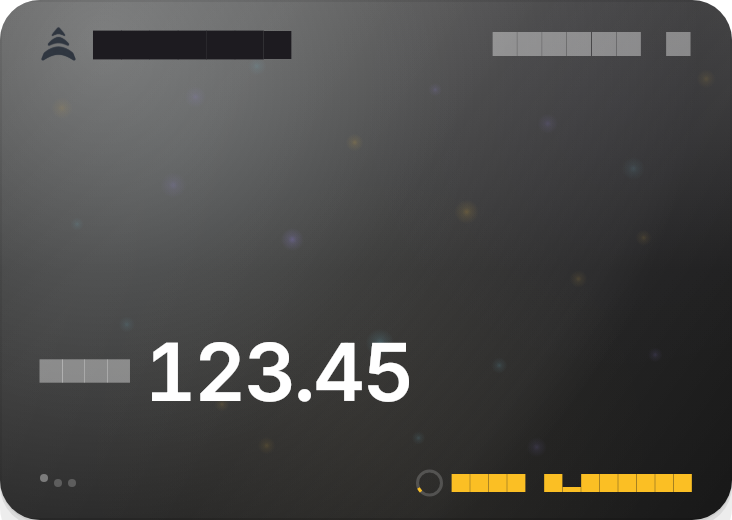
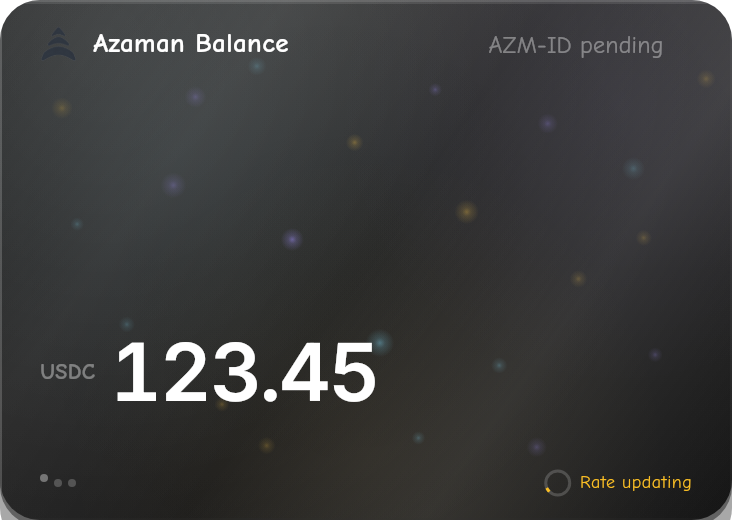
fix(captures): register every family the card types in — real font evidence, not placeholder bars
Review finding: the balance_cards capture harness registered ONLY Inter,
so every ComicNeue run (captions, unit labels, rate caption, delta chip)
and every HugeIcons glyph rasterised as Ahem placeholder bars / tofu
squares in the committed captures. The committed evidence therefore did
not show the product's real typography.

- Canonical font loader: Inter + ComicNeue (R/B) + MaterialIcons +
  package-qualified HugeIconsSolid/Stroke (#184 lesson: bare family
  names give tofu) + DejaVuSans as the glyph-complete theme fallback —
  ComicNeue has no cedi glyph (U+20B5); the OS supplies it on-device.
- Harness theme = real app theme with DejaVuSans fallback chain, so
  span styles inherit the fallback via DefaultTextStyle and metrics
  still come from the app's committed faces.
- FONT CONTRACT test: collects every family the card actually types in
  (all RichText spans, mounted icons, theme fallback chain) and fails
  naming any family the harness has not registered. Negative test
  proves the pre-fix Inter-only harness is caught.
- Span walk carries a visited-set guard: a shared/reentrant span tree
  otherwise recurses infinitely and segfaults the test shell.
- Regenerated all 12 committed captures with real glyphs; verified
  against a ComicNeue-disabled probe run (Ahem bars carry ~11.7k more
  ink px) — the committed evidence now shows real typography.
- Icon-font binaries copied from the #184 branch (same blobs, trivial
  merge in either order).

diff --git a/test/widgets/balance_cards_test.dart b/test/widgets/balance_cards_test.dart
@@ -33,6 +33,7 @@ import 'package:flutter_test/flutter_test.dart';
 import 'package:shared_preferences/shared_preferences.dart';
 
 import 'package:azaman/models/susu_model.dart';
+import 'package:hugeicons_pro/hugeicons.dart';
 import 'package:azaman/providers/hologram_provider.dart';
 import 'package:azaman/providers/theme_provider.dart';
 import 'package:azaman/providers/susu_provider.dart';
@@ -80,6 +81,141 @@ SusuSummary _susu({
   );
 }
 
+
+// ── Capture-evidence font contract (review finding on this PR) ──────────
+//
+// The real app types its surfaces in ComicNeue (UI) and Inter (money
+// figures), with HugeIconsSolid icons and the cedi glyph falling through
+// to the OS on-device. A capture harness that registers only some faces
+// rasterises the rest as Ahem placeholder bars — which is NOT product
+// evidence. Every family the card types in must be registered here, and
+// the FONT CONTRACT test below fails if the two lists drift apart.
+bool _fontsLoaded = false;
+final Set<String> _loadedFontFamilies = {};
+
+Future<void> _loadFace(String family, String path) async {
+  final bytes = await File(path).readAsBytes();
+  final loader = FontLoader(family)
+    ..addFont(
+      Future<ByteData>.value(ByteData.view(Uint8List.fromList(bytes).buffer)),
+    );
+  await loader.load();
+  _loadedFontFamilies.add(family);
+}
+
+/// Registers a family exactly as the engine resolves it for package
+/// icons: `IconData(fontFamily, fontPackage: p)` resolves under
+/// `packages/p/fontFamily` (the #184 harness lesson — the bare name
+/// leaves every glyph as tofu).
+String _familyKey(String family, {String? package}) =>
+    package == null ? family : 'packages/$package/$family';
+
+/// Registers the app's REAL bundled faces exactly once per test process
+/// (same contract as the Quiet Depth and native-amount harnesses):
+///
+///   • Inter — the numeric family (money figures; tabular metrics).
+///   • ComicNeue Regular + Bold — the display/UI family the live theme
+///     types the app in. Without them the engine rasterises Ahem:
+///     text captured as blank rectangular bars (this PR's review
+///     finding on the committed evidence).
+///   • MaterialIcons + HugeIconsSolid/Stroke — the real icon fonts, so
+///     icons render as glyphs, not tofu squares. Package icons resolve
+///     under the PACKAGE-QUALIFIED family key (the #184 lesson).
+///   • DejaVuSans — glyph-complete fallback wired through the harness
+///     theme; ComicNeue has no cedi glyph (U+20B5), the OS supplies it
+///     on-device. Metrics still come from the app's own faces.
+Future<void> _loadFonts() async {
+  if (_fontsLoaded) return;
+  await _loadFace('Inter', 'assets/fonts/Inter-Variable.ttf');
+  await _loadFace('ComicNeue', 'assets/fonts/ComicNeue-Regular.ttf');
+  await _loadFace('ComicNeue', 'assets/fonts/ComicNeue-Bold.ttf');
+  await _loadFace(
+      'MaterialIcons', 'test/goldens/fonts/MaterialIcons-Regular.otf');
+  await _loadFace('packages/hugeicons_pro/HugeIconsSolid',
+      'test/goldens/fonts/hugeicons-solid.ttf');
+  await _loadFace('packages/hugeicons_pro/HugeIconsStroke',
+      'test/goldens/fonts/hugeicons-stroke.ttf');
+  await _loadFace('DejaVuSans', 'test/goldens/fonts/DejaVuSans.ttf');
+  _fontsLoaded = true;
+}
+
+/// The families a card tree actually types in, resolved the way the
+/// engine resolves them: every RichText span with an explicit family,
+/// every icon's (package-qualified) family, and the harness theme's
+/// fallback chain.
+Set<String> _usedFontFamilies(WidgetTester tester, ThemeData theme) {
+  final used = <String>{};
+  for (final text in find.byType(RichText).evaluate()) {
+    final rich = text.widget as RichText;
+    // Walk the span tree explicitly (visitChildrenDirectly is not on
+    // InlineSpan in all channels; a manual recursive walk is stable).
+    // A span may be shared/reentrant (e.g. a style-resolving span that
+    // wraps itself); the visited set keeps the walk finite.
+    final visited = <InlineSpan>{};
+    void walk(InlineSpan span) {
+      if (!visited.add(span)) return;
+      final style = span.style;
+      final family = style?.fontFamily;
+      if (family != null) {
+        used.add(family);
+      }
+      span.visitChildren((child) {
+        walk(child);
+        return true;
+      });
+    }
+
+    walk(rich.text);
+  }
+  for (final icon in find.byType(Icon).evaluate()) {
+    final data = (icon.widget as Icon).icon;
+    if (data != null) {
+      used.add(_familyKey(data.fontFamily ?? '', package: data.fontPackage));
+    }
+  }
+  // The harness theme's fallback chain is typed into every span that
+  // does not override it (DefaultTextStyle inheritance).
+  // TextTheme has no styles iterator on this channel; visit the slots.
+  for (final style in [
+    theme.textTheme.displayLarge,
+    theme.textTheme.displayMedium,
+    theme.textTheme.displaySmall,
+    theme.textTheme.headlineLarge,
+    theme.textTheme.headlineMedium,
+    theme.textTheme.headlineSmall,
+    theme.textTheme.titleLarge,
+    theme.textTheme.titleMedium,
+    theme.textTheme.titleSmall,
+    theme.textTheme.bodyLarge,
+    theme.textTheme.bodyMedium,
+    theme.textTheme.bodySmall,
+    theme.textTheme.labelLarge,
+    theme.textTheme.labelMedium,
+    theme.textTheme.labelSmall,
+  ]) {
+    if (style == null) continue;
+    if (style.fontFamily != null) used.add(style.fontFamily!);
+    used.addAll(style.fontFamilyFallback ?? const <String>[]);
+  }
+  used.remove('');
+  return used;
+}
+
+/// The contract: every used family must be registered in the harness.
+/// Returns the used families with no registered face — the missing-font
+/// defect this PR's review found (Inter-only harness → every ComicNeue
+/// run and every HugeIcons glyph rasterised as placeholder bars).
+Set<String> _missingFontFamilies(
+    Set<String> used, Set<String> loaded) {
+  return used.difference(loaded);
+}
+
+ThemeData _harnessTheme(AzamanTheme theme) {
+  final base = ThemeProvider.getThemeData(theme);
+  return base.copyWith(
+    textTheme: base.textTheme.apply(fontFamilyFallback: const ['DejaVuSans']),
+  );
+}
 
 Widget _wrap(Widget child, {bool reduceMotion = false}) {
   return MaterialApp(
@@ -790,18 +926,6 @@ void main() {
   group('WORKSTREAM B — captures (light/dark × 320/360/390 × FX states)',
       () {
     const rootKey = Key('balance-card-capture-root');
-    bool fontsLoaded = false;
-
-    Future<void> loadFonts() async {
-      if (fontsLoaded) return;
-      final inter =
-          await File('assets/fonts/Inter-Variable.ttf').readAsBytes();
-      final loader = FontLoader('Inter')
-        ..addFont(Future<ByteData>.value(
-            ByteData.view(Uint8List.fromList(inter).buffer)));
-      await loader.load();
-      fontsLoaded = true;
-    }
 
     Future<void> capture(WidgetTester tester, String name) async {
       var ok = false;
@@ -821,7 +945,7 @@ void main() {
 
     testWidgets('front face, both FX states, both themes, three widths',
         (tester) async {
-      await tester.runAsync(loadFonts);
+      await tester.runAsync(_loadFonts);
       for (final themeName in ['light', 'dark']) {
         for (final width in [320.0, 360.0, 390.0]) {
           for (final state in ['waiting', 'resolved']) {
@@ -845,6 +969,12 @@ void main() {
               UncontrolledProviderScope(
                 container: container,
                 child: MaterialApp(
+                  // REAL theme + glyph-complete fallback: metrics come
+                  // from the app's committed faces; only the cedi glyph
+                  // (missing from ComicNeue) falls through to DejaVuSans
+                  // exactly as the OS supplies it on-device.
+                  theme: _harnessTheme(
+                      themeName == 'dark' ? AzamanTheme.dark : AzamanTheme.light),
                   home: Scaffold(
                     backgroundColor: themeName == 'dark'
                         ? const Color(0xFF0A0C12)
@@ -882,6 +1012,124 @@ void main() {
         }
       }
       await tester.binding.setSurfaceSize(null);
+    });
+
+    testWidgets('CAPTURE-EVIDENCE FONT CONTRACT — every family the card '
+        'types in is registered in the harness (no placeholder-bar text)',
+        (tester) async {
+      await tester.runAsync(_loadFonts);
+      // One representative configuration (dark, 390dp, resolved — the
+      // richest text surface: caption + unit + delta + figure + icons).
+      SharedPreferences.setMockInitialValues({'azaman_theme': 1});
+      await tester.binding.setSurfaceSize(const Size(390, 260));
+      addTearDown(() => tester.binding.setSurfaceSize(null));
+      Widget host(ProviderContainer c) => UncontrolledProviderScope(
+            container: c,
+            child: MaterialApp(
+              // REAL theme + glyph-complete fallback: metrics come
+              // from the app's committed faces; only the cedi glyph
+              // (missing from ComicNeue) falls through to DejaVuSans
+              // exactly as the OS supplies it on-device.
+              theme: _harnessTheme(AzamanTheme.dark),
+              home: const Scaffold(
+                body: Center(
+                  child: RepaintBoundary(
+                    key: rootKey,
+                    child: HologramBalanceCard(),
+                  ),
+                ),
+              ),
+            ),
+          );
+
+      // Stage 1: the authoritative first load anchors the delta
+      // baseline silently (no chip yet).
+      final container = ProviderContainer(overrides: [
+        balanceDataProvider.overrideWith(
+          (ref) => const BalanceData(availableBalance: 100),
+        ),
+        balanceReadinessProvider.overrideWith(
+            (ref) => BalanceReadiness.loaded),
+        oracleRateProvider.overrideWith((ref) => 15.38),
+      ]);
+      addTearDown(container.dispose);
+      await tester.pumpWidget(host(container));
+      for (var i = 0; i < 14; i++) {
+        await tester.pump(const Duration(milliseconds: 100));
+      }
+
+      // Stage 2: a REAL balance move mounts the delta chip with its
+      // HugeIcons direction icon — the richest text+icon surface.
+      final moved = ProviderContainer(overrides: [
+        balanceDataProvider.overrideWith(
+          (ref) => const BalanceData(availableBalance: 123.45),
+        ),
+        balanceReadinessProvider.overrideWith(
+            (ref) => BalanceReadiness.loaded),
+        oracleRateProvider.overrideWith((ref) => 15.38),
+      ]);
+      addTearDown(moved.dispose);
+      await tester.pumpWidget(host(moved));
+      for (var i = 0; i < 14; i++) {
+        await tester.pump(const Duration(milliseconds: 100));
+      }
+      expect(find.byIcon(HugeIconsSolid.arrowUp01), findsOneWidget,
+          reason: 'the delta chip must be mounted for this contract to '
+              'cover the icon families too — the chip text itself is '
+              'unit-dependent (GH₵ under the usable rate here), the '
+              'direction ICON is the stable marker');
+
+      final used = _usedFontFamilies(
+          tester, _harnessTheme(AzamanTheme.dark));
+      expect(
+          used,
+          containsAll([
+            'ComicNeue',
+            'Inter',
+            'packages/hugeicons_pro/HugeIconsSolid',
+          ]),
+          reason: 'the card types in both live theme families and the '
+              'delta chip mounts a HugeIconsSolid icon — the collector '
+              'must see all three (a broken collector that finds '
+              'nothing would make this contract vacuous)');
+      final missing = _missingFontFamilies(used, _loadedFontFamilies);
+      expect(missing, isEmpty,
+          reason: 'families typed in by the card but not registered by '
+              'the capture harness rasterise as placeholder bars — the '
+              'committed evidence defect this review found. Missing: '
+              '${missing.join(', ')}');
+    });
+
+    test('CAPTURE-EVIDENCE FONT CONTRACT (negative) — the pre-fix '
+        'Inter-only harness is caught by the detector', () {
+      // The families the card tree really types in (see the contract
+      // test above). The harness as committed on the review head
+      // registered ONLY Inter:
+      const preFixLoaded = {'Inter'};
+      const usedByCard = {
+        'ComicNeue', // every AzText UI style (labels, captions, deltas)
+        'Inter', // money figures (AzText.money/delta)
+        'packages/hugeicons_pro/HugeIconsSolid', // delta-direction icons
+      };
+      final missing = _missingFontFamilies(usedByCard, preFixLoaded);
+      expect(missing,
+          containsAll(['ComicNeue', 'packages/hugeicons_pro/HugeIconsSolid']),
+          reason: 'with only Inter registered, every ComicNeue run and '
+              'every HugeIcons glyph rasterised as placeholder bars — '
+              'the committed-evidence defect. The detector must name '
+              'exactly these.');
+      const fixedHarness = {
+        'Inter',
+        'ComicNeue',
+        'packages/hugeicons_pro/HugeIconsSolid',
+        'packages/hugeicons_pro/HugeIconsStroke',
+        'MaterialIcons',
+        'DejaVuSans',
+      };
+      expect(_missingFontFamilies(usedByCard, fixedHarness), isEmpty,
+          reason: 'with the fixed harness all card families resolve '
+              '(the live testWidgets contract proves the real registry '
+              'is this set)');
     });
   });
 
